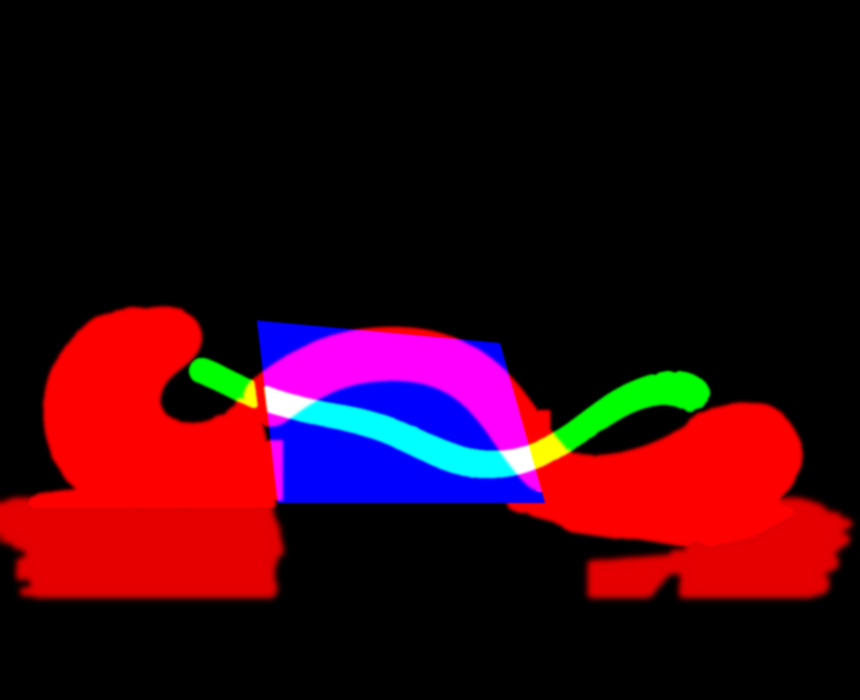
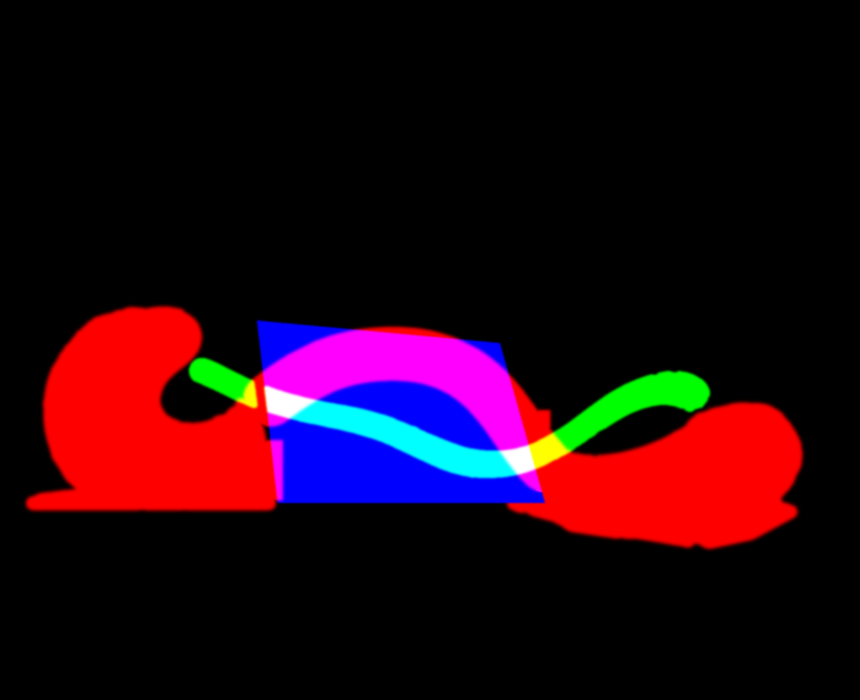
Hero: snake grows from a dot at the left, through the laptop, out the right

Changed region(s): [[0.0, 0.69, 0.3326, 0.87], [0.6651, 0.69, 0.9977, 0.87]]

diff --git a/assets/js/main.js b/assets/js/main.js
@@ -158,12 +158,17 @@
 uniform sampler2D plate,snk,orig,tm,al;uniform float p,f;
 void main(){
   vec3 T=texture2D(tm,v).rgb, A=texture2D(al,v).rgb;
-  float w1=clamp((p-T.r)/.045,0.,1.)*A.r;
-  float q=clamp((p-.22)/.78,0.,1.);
-  float w2=clamp((q*1.04-T.g)/.03,0.,1.)*A.g;
+  float d1=p-T.r;
+  float w1=clamp(d1/.03,0.,1.)*A.r;
+  float q=clamp((p-.36)/.64,0.,1.);
+  float d2=q*1.04-T.g;
+  float w2=clamp(d2/.03,0.,1.)*A.g;
   vec3 o=texture2D(orig,v).rgb;
   vec3 c=mix(texture2D(plate,v).rgb,texture2D(snk,v).rgb,w1);
   c=mix(c,o,w2);
+  float g1=step(0.,d1)*exp(-d1/.05)*A.r*(1.-step(.98,p));
+  float g2=step(0.,d2)*exp(-d2/.05)*A.g;
+  c+=g1*vec3(.55,.30,.95)*(1.-w2)+g2*vec3(.95,.45,.35);
   gl_FragColor=vec4(mix(c,o,f),1.);}`));
     gl.linkProgram(pr); gl.useProgram(pr);
     const b = gl.createBuffer(); gl.bindBuffer(gl.ARRAY_BUFFER, b);
@@ -191,7 +196,7 @@ void main(){
       if (h.started) return; h.started = true;
       h.ready.then(() => {
         if (h.failed) return;
-        const D = 5200, t0 = performance.now() + delay * 1000;
+        const D = 6200, t0 = performance.now() + delay * 1000;
         const tick = now => {
           const k = Math.min(1, Math.max(0, (now - t0) / D));
           h.p = ease(k) * 1.02;
